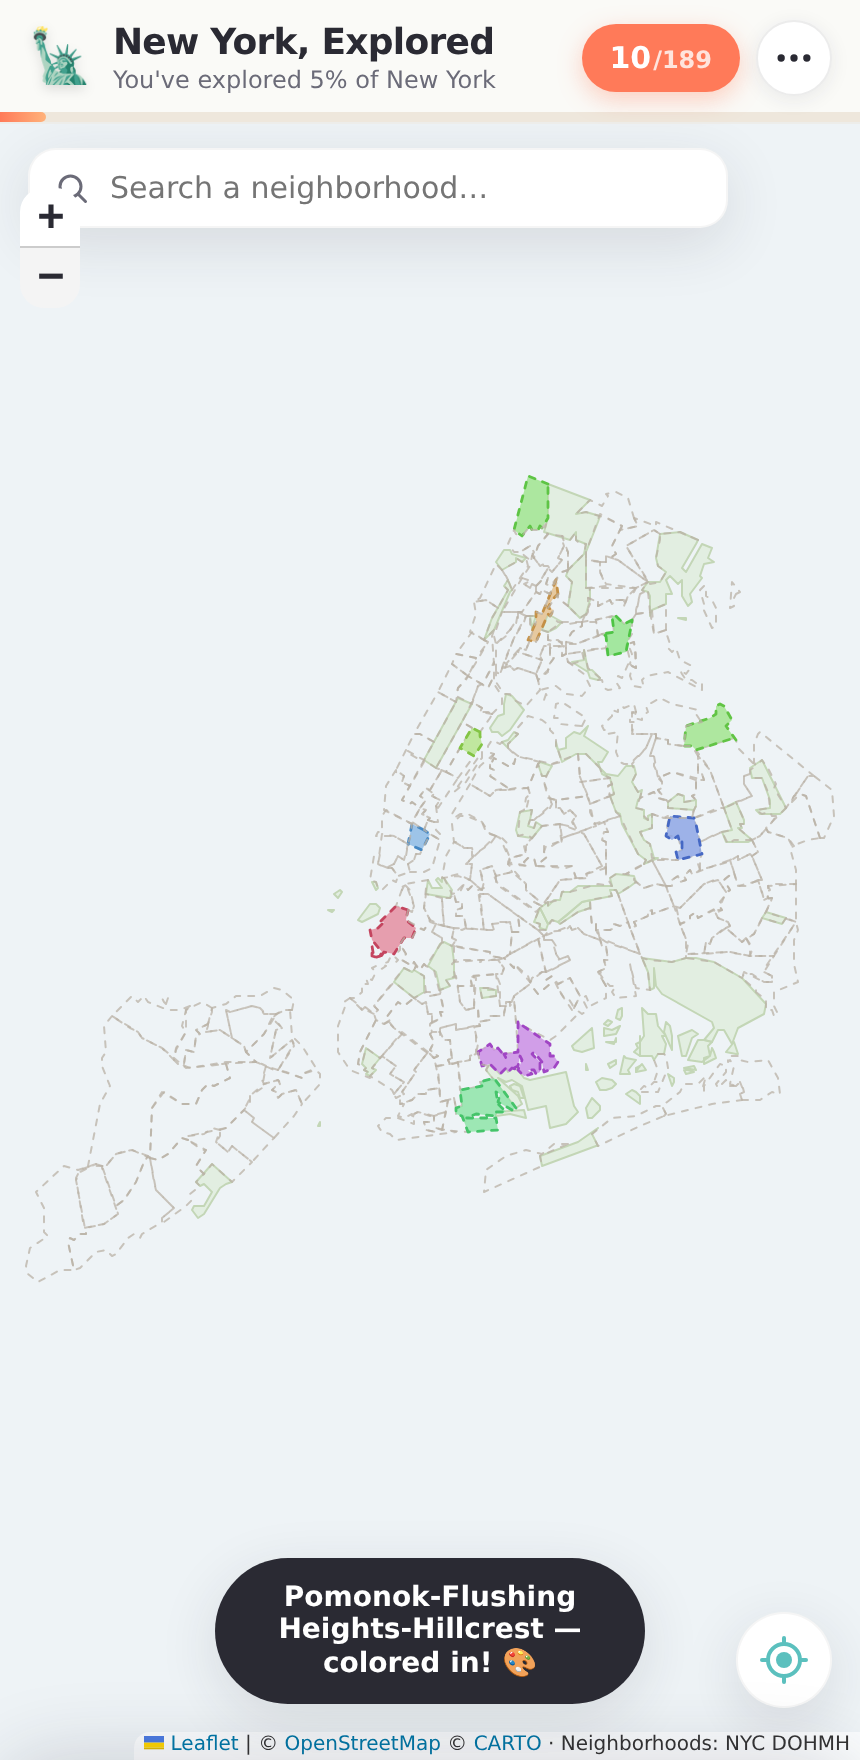
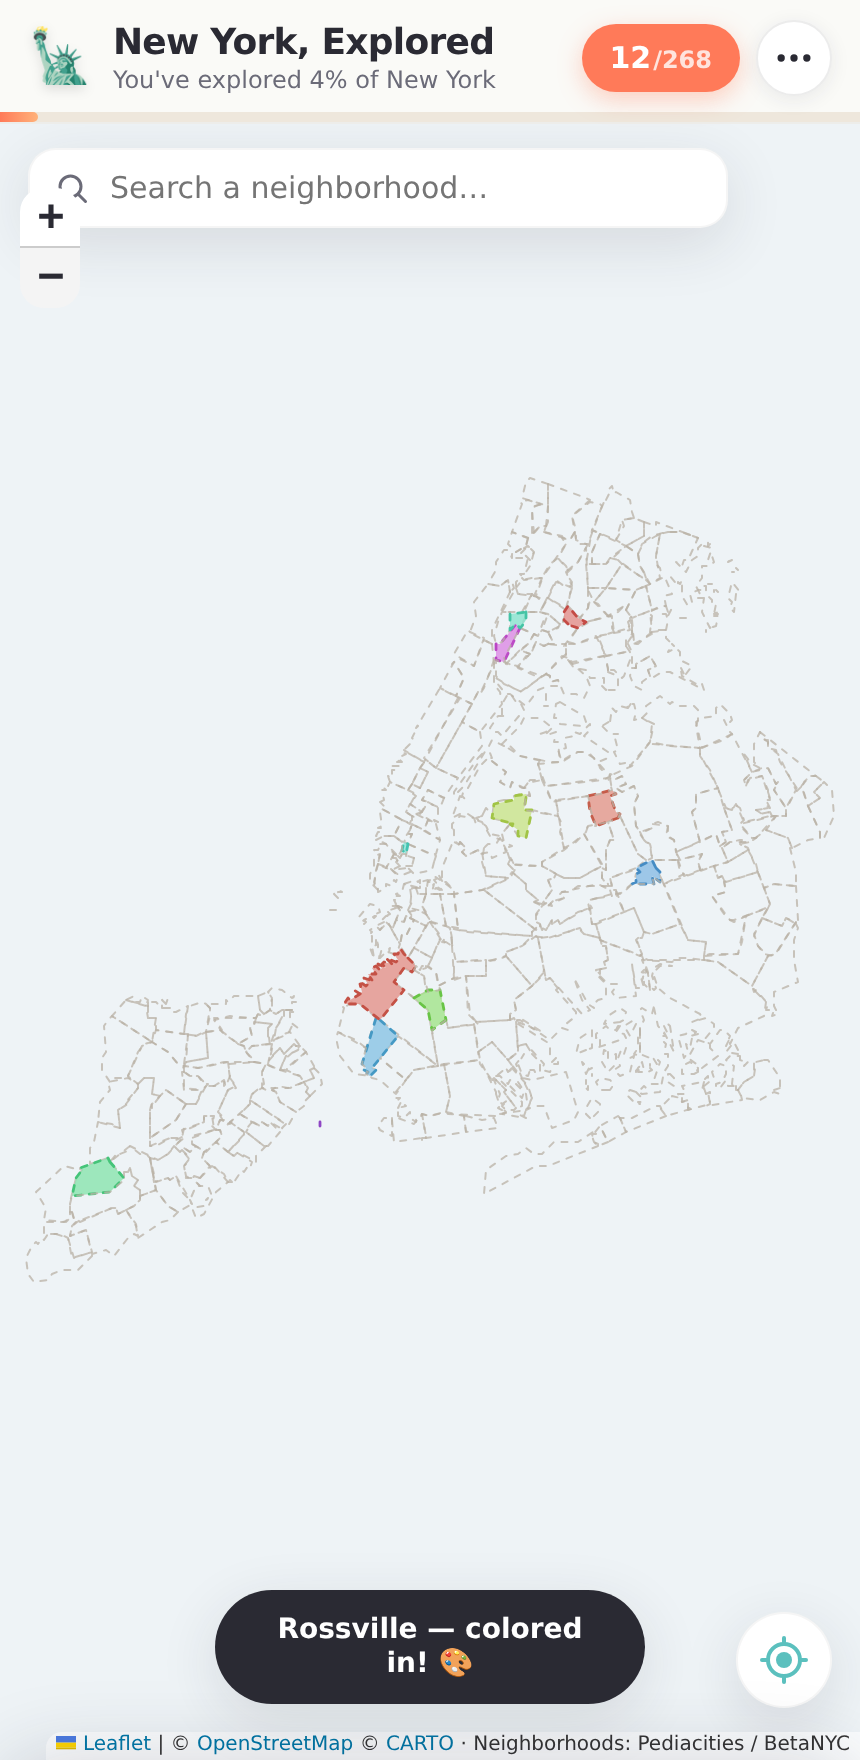
Switch to Pediacities neighborhoods and add tap-outside-to-dismiss
Map data: replace the Census "tabulation area" boundaries (which split
Williamsburg oddly and rename familiar areas) with the widely-adopted
Pediacities / BetaNYC neighborhood set. Now 268 colloquial neighborhoods —
SoHo, NoHo, Nolita, Tribeca, Little Italy, DUMBO, a single Williamsburg, etc.
Multi-part areas are merged by name into one MultiPolygon each so no
neighborhood appears twice. Coordinates rounded to ~1m to keep the file lean.

Interaction: tap anywhere on the map away from a neighborhood to dismiss the
open card (guarded so the tap that opens a neighborhood doesn't also close it),
complementing the existing swipe-down and × close.

Also: on-map labels no longer hyphen-truncate (they only drop a redundant
borough suffix), so names like "Bedford-Stuyvesant" show in full. Attribution
and docs updated to credit Pediacities / BetaNYC.

Claude-Session: https://claude.ai/code/session_01JkHjcBjLqbmSww8e46Fjja

diff --git a/assets/app.js b/assets/app.js
@@ -136,7 +136,7 @@
       {
         subdomains: "abcd", maxZoom: 20,
         attribution:
-          '&copy; <a href="https://openstreetmap.org/copyright">OpenStreetMap</a> &copy; <a href="https://carto.com/attributions">CARTO</a> · Neighborhoods: NYC DOHMH',
+          '&copy; <a href="https://openstreetmap.org/copyright">OpenStreetMap</a> &copy; <a href="https://carto.com/attributions">CARTO</a> · Neighborhoods: Pediacities / BetaNYC',
       }
     ).addTo(map);
 
@@ -163,14 +163,21 @@
     }).addTo(map);
 
     map.on("zoomend", updateLabelVisibility);
+    // Tap the map away from any neighborhood to dismiss the open card.
+    // Ignore the same click that just opened a neighborhood (guards against a
+    // polygon tap also registering as a base-map click).
+    map.on("click", () => {
+      if (Date.now() - lastHoodTapTs < 400) return;
+      if (el.sheet.classList.contains("open")) closeSheet();
+    });
     map.fitBounds([[40.495, -74.255], [40.915, -73.70]], { padding: [10, 10] });
     updateLabelVisibility();
   }
 
-  // Shorten long combined NTA names for on-map labels (full name stays in the card/search)
+  // Label text: drop a redundant borough suffix (e.g. "Chelsea, Staten Island" → "Chelsea").
+  // Full name is kept for the card and search.
   function shortLabel(name) {
-    if (name.length > 16 && name.includes("-")) return name.split("-")[0].trim();
-    return name;
+    return name.split(",")[0].trim();
   }
   function updateLabelVisibility() {
     const on = map.getZoom() >= LABEL_ZOOM;
@@ -189,7 +196,9 @@
     if (layer) layer.setStyle(styleFor(byId[id]));
   }
 
+  let lastHoodTapTs = 0;
   function onHoodTap(id) {
+    lastHoodTapTs = Date.now();
     if (SETTINGS.tapMode === "mark" && !hoodState(id).visited) {
       setVisited(id, true, /*silent*/ true);
       toast(byId[id].properties.name + " — colored in! 🎨");
@@ -638,7 +647,7 @@
        on <b>this device</b> — nothing is uploaded anywhere.</p>
        <p style="font-size:13px;line-height:1.6;color:#8a8a95">
        Because it's stored only on your device, use <b>Export my data</b> now and then to keep a backup —
-       especially before clearing your browser. Neighborhood boundaries: NYC Dept. of Health (NTA).
+       especially before clearing your browser. Neighborhood boundaries: Pediacities / BetaNYC.
        Basemap: CARTO / OpenStreetMap.</p>
        <div class="modal-close-row"><button class="btn btn-primary" data-close>Got it</button></div>`
     );

diff --git a/index.html b/index.html
@@ -22,7 +22,7 @@
       </div>
       <div class="topbar-actions">
         <button class="pill-stat" id="stat-pill" title="See your progress">
-          <span id="stat-count">0</span><span class="pill-total">/189</span>
+          <span id="stat-count">0</span><span class="pill-total">/268</span>
         </button>
         <button class="icon-btn" id="menu-btn" title="Menu" aria-label="Menu">
           <svg viewBox="0 0 24 24" width="22" height="22"><circle cx="5" cy="12" r="2"/><circle cx="12" cy="12" r="2"/><circle cx="19" cy="12" r="2"/></svg>

diff --git a/README.md b/README.md
@@ -12,10 +12,13 @@ fill up over the course of your trip.
 
 ## Features
 
-- 🗺️ **Interactive map** of all five boroughs — zoom and pan, built on real NYC
-  neighborhood boundaries (NYC DOHMH Neighborhood Tabulation Areas).
+- 🗺️ **Interactive map** of all five boroughs — zoom and pan across **268
+  neighborhoods** using the widely-recognized Pediacities / BetaNYC boundaries
+  (SoHo, NoHo, Nolita, DUMBO, a single Williamsburg, and so on).
 - 🏷️ **Named neighborhoods** — labels appear right on the map as you zoom in, so
   you can see where you are without tapping anything.
+- 👆 **Dismiss the card** by tapping elsewhere on the map, swiping it down, or
+  hitting the × — whichever's handiest.
 - 🎨 **Tap to color in** — each neighborhood gets its own distinct, evenly-spread
   pastel color when you mark it visited.
 - ⚙️ **Choose your tap behavior** (Settings) — either *tap to preview* (opens the
@@ -72,16 +75,18 @@ index.html                    markup + layout
 assets/style.css              styles
 assets/app.js                 map, interaction, state, search, locate, stats
 assets/db.js                  IndexedDB wrapper for photos
-data/neighborhoods.geojson    189 neighborhoods + parks, 5 boroughs
+data/neighborhoods.geojson    268 neighborhoods, 5 boroughs
 vendor/leaflet/               bundled Leaflet library
 ```
 
 ### Data
 
-Neighborhood boundaries come from NYC's **Neighborhood Tabulation Areas (NTA)**,
-published by the NYC Department of Health. Parks, cemeteries and airports are
-drawn as a soft green backdrop but aren't counted or tappable, leaving 189
-trackable neighborhoods.
+Neighborhood boundaries come from the **Pediacities NYC Neighborhoods** dataset
+(via BetaNYC / the HodgesWardElliott refinements) — the widely-adopted set of
+colloquial neighborhood names and boundaries (SoHo, NoHo, Nolita, DUMBO, a single
+Williamsburg, etc.), rather than the Census "tabulation areas" that split and
+rename familiar neighborhoods. Multi-part areas are merged so each neighborhood
+is one entry, giving 268 neighborhoods across the five boroughs.
 
 ## Ideas for later
 